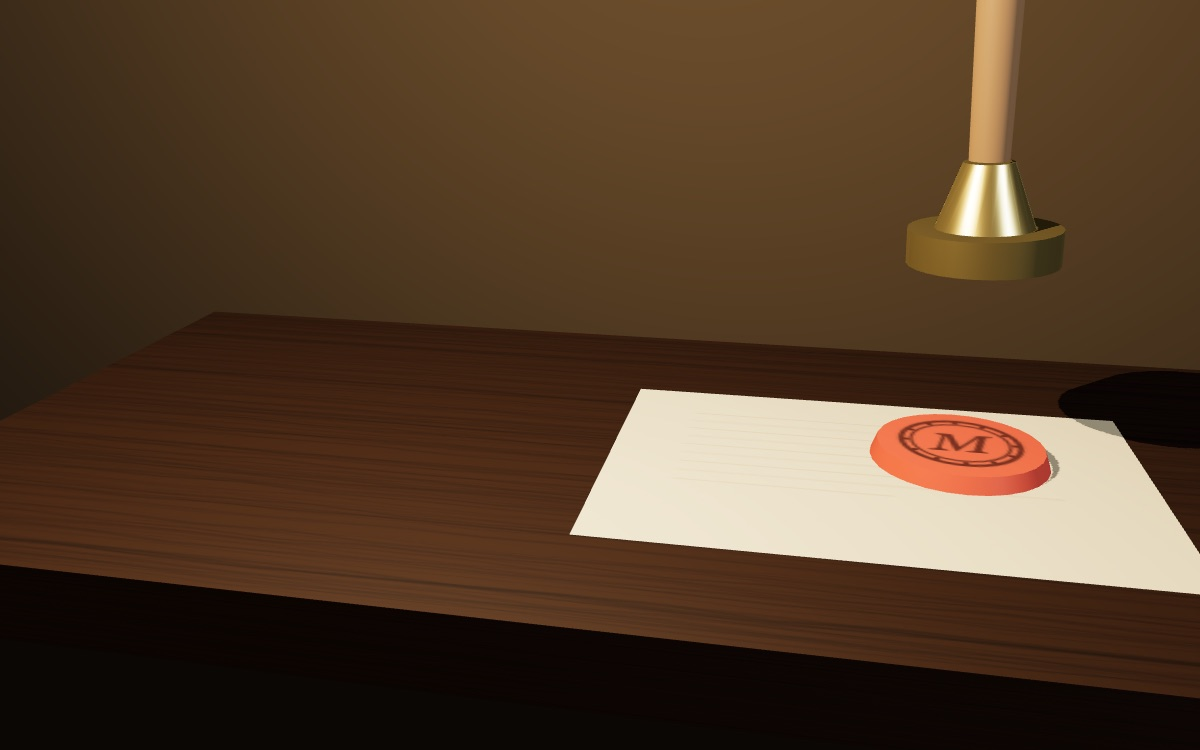
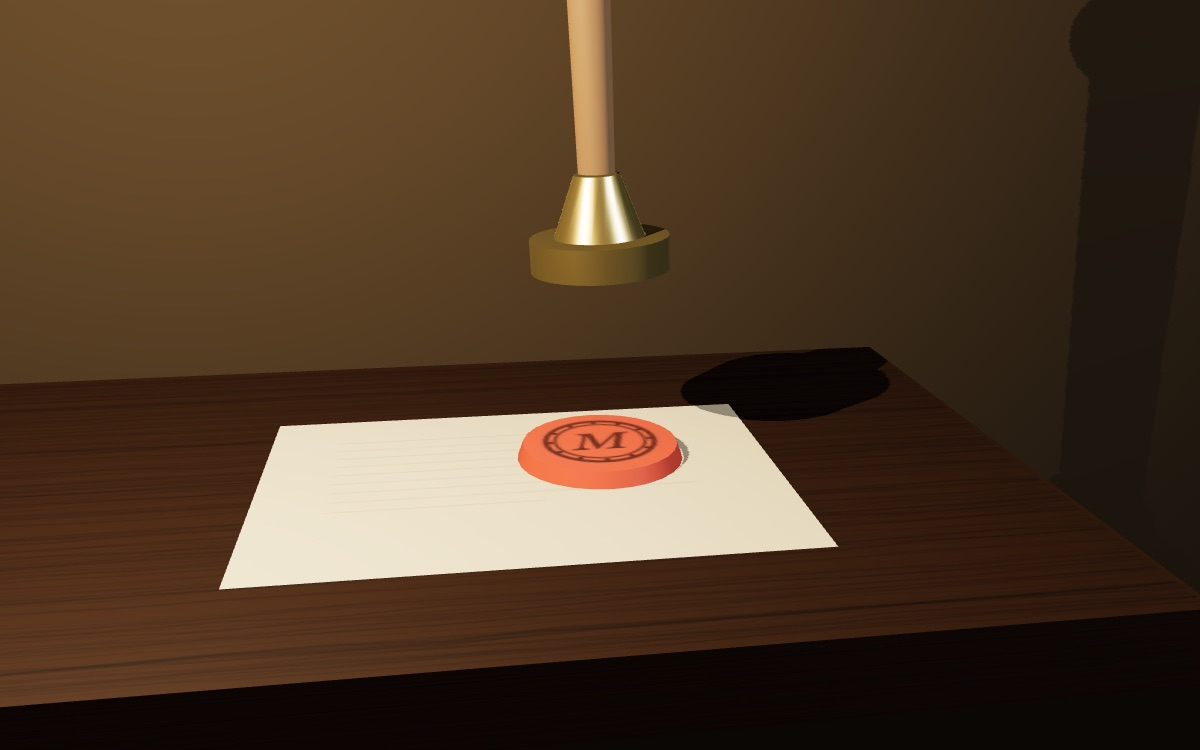
Glossaire : objectivation réécrite selon la charte, direction artistique « la pierre taillée »

diff --git a/glossaire/mondes/objectivation/essai.html b/glossaire/mondes/objectivation/essai.html
@@ -1,46 +1,72 @@
-<!-- L'ESSAI — le corps de /glossaire/objectivation.
-     ⚠ AUCUNE CITATION LIÉE : traduction Bottigelli, protégée jusqu'en 2046.
-     Le premier manuscrit est PARAPHRASÉ et situé, jamais cité. -->
+<!-- L'ESSAI : le corps de /glossaire/objectivation.
+     Réécrit en octobre 2026 selon glossaire/mondes/CHARTE.md.
+     AUCUNE CITATION LIÉE : la traduction Bottigelli des Manuscrits est
+     protégée jusqu'en 2046. Le premier et le troisième manuscrit sont
+     PARAPHRASÉS et situés, jamais cités entre guillemets. Les data-etape et
+     les id des sections ne changent pas : la scène lit les premiers, les
+     liens et la recherche les seconds. -->
 
 <section class="nt-sec" data-etape="fait" id="fait">
-<h2>Le travail se réalise dans un objet</h2>
-<p>Il y a, au cœur du premier manuscrit, une proposition si simple qu'on la lit souvent sans la voir, et dont dépend pourtant tout ce que Marx construira ensuite&nbsp;: le travail se réalise dans un objet. Travailler, ce n'est pas dépenser une énergie qui se dissipe&nbsp;; c'est faire passer une activité dans une chose, où elle se fixe et demeure. Le produit d'un travail est du travail devenu objet.</p>
-<p>Marx nomme ce passage l'objectivation, et il faut prendre le mot dans son sens le plus littéral&nbsp;: devenir-objet. Ce qui était mouvement, geste, décision, se dépose dans une matière qui le retient. Une table finie, c'est un certain nombre d'heures rendues visibles et durables&nbsp;; elle continue d'exister quand le menuisier a cessé de travailler, et même quand il est mort.</p>
-<p>On mesure ce que cette proposition a d'extraordinaire dès qu'on la retourne. Si le travail se dépose dans les choses, alors le monde des objets fabriqués est le monde des activités humaines passées, conservées&nbsp;; une ville, une bibliothèque, un outil sont des quantités de vie humaine qui ont pris corps. C'est cette idée, et non une thèse économique, qui fait des <i>Manuscrits</i> autre chose qu'un commentaire de Smith.</p>
+<h2>Que veut dire «&nbsp;le travail se réalise dans un objet&nbsp;»&nbsp;?</h2>
+<p class="nt-lead">Cela veut dire que travailler, c'est faire passer une activité dans une matière, où elle se fixe et demeure. Le produit est du travail devenu objet, et Marx appelle objectivation ce passage.</p>
+<p>La notion apparaît dans le premier des <i>Manuscrits de 1844</i>, des cahiers que Marx rédige à Paris et qui sont restés inédits jusqu'en 1932. Au moment où il commence l'analyse du travail aliéné, il pose une définition très simple&nbsp;: le produit du travail est le travail qui s'est fixé dans un objet, et réaliser un travail, c'est l'objectiver. Le mot allemand, <i lang="de">Vergegenständlichung</i>, se lit presque à la lettre. Il est formé sur <i lang="de">Gegenstand</i>, l'objet, et désigne le fait de devenir objet.</p>
+<p>Prenons une table. Avant qu'elle existe, il y a un menuisier qui mesure, scie, rabote et assemble. Ses gestes passent, et pourtant quelque chose d'eux reste&nbsp;: la forme donnée au bois, la justesse des joints. La table continue d'exister quand le menuisier a posé ses outils, et même après sa mort. On peut dire d'elle qu'elle est une activité passée, conservée dans une matière.</p>
+<p>Retournée, l'idée prend de l'ampleur. Si le travail se dépose dans les choses, le monde des objets fabriqués est fait d'activités humaines passées&nbsp;: une ville ou un outil sont des quantités de vie humaine qui ont pris corps. La photographie en tête de page le montre sur un seul bloc de pierre. Chaque strie y est un coup de ciseau, et la marque du tailleur se lit encore, dix-huit siècles après qu'il a posé son outil.</p>
 </section>
 
 <section class="nt-sec" data-etape="distinction" id="distinction">
-<h2>La distinction qui fait le concept&nbsp;: objectiver n'est pas aliéner</h2>
-<p>Ici se joue la distinction la plus importante de toute la notion, et celle que l'on manque le plus souvent&nbsp;: l'objectivation n'est pas l'aliénation. Le travail se réalise dans un objet — cela est vrai de tout travail, en tout temps, sous n'importe quel rapport social. C'est un fait anthropologique, non un malheur.</p>
-<p>Ce qui fait le malheur, c'est ce qui arrive à cet objet ensuite. Sous le rapport que Marx analyse, la réalisation du travail apparaît comme une perte de réalité pour le travailleur&nbsp;; l'objectivation apparaît comme une dépossession&nbsp;; l'appropriation apparaît comme un dessaisissement. Il faut lire ces formules avec attention&nbsp;: Marx dit que l'objectivation <i>apparaît comme</i> dépossession, dans ces conditions-là — non qu'elle le soit par nature.</p>
-<p>La conséquence est considérable pour toute la lecture de Marx. Si l'on confond les deux, on aboutit à l'idée qu'il faudrait cesser de produire des objets, ou que toute technique est une chute&nbsp;; on tire des <i>Manuscrits</i> une nostalgie qui n'y est pas. Si on les distingue, la critique porte non sur le fait que l'homme se dépose dans ce qu'il fait — c'est ainsi qu'il vit et qu'il se développe — mais sur le rapport social qui fait que ce dépôt lui revient comme une puissance étrangère. Ce rapport a un nom&nbsp;: c'est le <a href="/glossaire/travail-aliene">travail aliéné</a>, et l'objectivation en est le présupposé, non la cause.</p>
+<h2>L'objectivation est-elle déjà une aliénation&nbsp;?</h2>
+<p class="nt-lead">Non. Tout travail s'objective, à toute époque et sous n'importe quel rapport social. L'aliénation désigne ce qui arrive au produit dans une situation donnée, quand il échappe à celui qui l'a fait et se retourne contre lui.</p>
+<p>Marx enchaîne aussitôt. Dans l'état que décrit l'économie politique, dit-il, la réalisation du travail apparaît comme une perte de réalité pour l'ouvrier, l'objectivation comme la perte de l'objet et l'asservissement à cet objet, l'appropriation comme une aliénation. Le verbe compte&nbsp;: l'objectivation <i>apparaît comme</i> une perte, dans ces conditions-là. Marx ne dit nulle part qu'elle en soit une par nature.</p>
+<p>Si l'on confond les deux notions, on conclut que le mal vient du fait même de produire des objets, et l'on prête aux <i>Manuscrits</i> une nostalgie d'un monde sans techniques qu'ils n'expriment nulle part. Si on les distingue, la critique trouve sa cible&nbsp;: le rapport social qui fait revenir le produit vers le travailleur comme une puissance étrangère. Ce rapport a un nom, le <a href="/glossaire/travail-aliene">travail aliéné</a>. L'objectivation en est la condition préalable, puisque sans produit rien ne pourrait échapper au travailleur.</p>
+<div class="nt-ex">
+<p class="nt-ex-t">Un exemple</p>
+<p>Deux menuisiers font la même chaise. Le premier travaille chez lui, avec ses outils, pour sa propre maison. Le second travaille dans une fabrique, sur le bois et les machines d'un autre, contre un salaire. Dans les deux cas l'objectivation est la même&nbsp;: une activité est passée dans le bois et y demeure.</p>
+<p>Ce qui diffère, c'est le sort de la chaise. La première reste à celui qui l'a faite. La seconde appartient au propriétaire de la fabrique&nbsp;; plus l'ouvrier en fait, plus grossit une richesse qui n'est pas la sienne et qui décide de son travail du lendemain. L'exemple est le nôtre, la distinction est celle de Marx.</p>
+</div>
+<p>Le sceau donne une image simple de l'objectivation sans perte. La matrice laisse sa forme dans la cire, et elle garde intacte sa gravure&nbsp;: la scène en bas de page joue sur ce geste.</p>
+<div data-planche="sceau"></div>
 </section>
 
 <section class="nt-sec" data-etape="ou" id="ou">
-<h2>Où Marx la pose&nbsp;: au seuil du travail aliéné</h2>
-<p>La place du concept dans le cahier confirme cette lecture. L'objectivation est introduite au début de la section sur le travail aliéné, comme le fait dont on part&nbsp;: l'ouvrier produit, et son produit se dresse devant lui comme un être étranger. Marx commence par le fait — il y a un produit — puis ajoute la détermination sociale — ce produit ne lui appartient pas.</p>
-<p>On peut suivre l'ordre de la déduction, et il est instructif. Premier moment&nbsp;: le travail produit des objets. Deuxième moment&nbsp;: dans ces conditions, plus il en produit, moins il en possède, et plus l'objet qu'il crée acquiert de puissance en face de lui. Troisième moment&nbsp;: cette puissance est faite de son propre travail, si bien que ce qui l'écrase est ce qu'il a mis dans le monde. Marx en tire une comparaison qu'il file avec la religion — plus l'homme met de choses en Dieu, moins il en garde en lui-même —, et l'on voit que la structure est la même&nbsp;: une production humaine qui devient un pouvoir séparé.</p>
-<p>Il faut noter que le premier moment, à lui seul, ne contient aucun grief. C'est même ce qui rend l'analyse forte&nbsp;: Marx n'a pas besoin de supposer une méchanceté, ni un vol, ni une origine coupable. Il lui suffit du fait que le travail s'objective et de la condition sociale sous laquelle il s'objective, et la dépossession suit.</p>
+<h2>Comment Marx passe-t-il de l'objectivation au travail aliéné&nbsp;?</h2>
+<p class="nt-lead">Il part d'un fait économique de son temps, l'appauvrissement de l'ouvrier qui produit des richesses. Puis il y distingue le fait universel de l'objectivation et la forme de perte qu'elle prend sous l'économie qu'il étudie.</p>
+<p>Le premier manuscrit refuse de commencer par un état originel imaginé, comme les économistes qui expliquent l'échange par un passé fabriqué pour l'occasion. Marx compare cette manière au théologien qui explique le mal par le péché originel, en supposant ce qu'il faudrait démontrer. Lui part d'un fait actuel&nbsp;: l'ouvrier devient d'autant plus pauvre qu'il produit plus de richesse, et il devient lui-même une marchandise d'autant plus vile qu'il en crée davantage. Ce fait, dit-il, signifie que le produit du travail fait face à l'ouvrier comme un être étranger, une puissance indépendante de lui. C'est pour analyser ce fait qu'il introduit l'objectivation.</p>
+<p>La déduction a trois moments. D'abord, le travail produit des objets. Ensuite, sous le rapport analysé, plus l'ouvrier produit, moins il possède, et plus son produit, le capital, le domine. Enfin, ce qui le domine est fait de sa propre activité. Marx compare ce mouvement à la religion, où tout ce que l'homme attribue à Dieu est retiré à l'homme. L'ouvrier met sa vie dans l'objet, et cette vie appartient désormais à l'objet&nbsp;; il devient, selon le mot que le traducteur signale en note, sans objet, <i lang="de">gegenstandslos</i>.</p>
+<p>Le premier de ces moments ne contient aucun grief&nbsp;: Marx n'a besoin de supposer ni vol ni faute d'origine. Il lui suffit que le travail s'objective, et qu'il s'objective dans certaines conditions sociales, pour que la dépossession suive.</p>
 </section>
 
 <section class="nt-sec" data-etape="matiere" id="matiere">
-<h2>Le mécanisme&nbsp;: la nature comme matière, et comme corps</h2>
-<p>Un second aspect du concept mérite d'être dégagé, parce qu'il commande la suite du cahier. Pour que le travail s'objective, il lui faut une matière&nbsp;: on ne dépose pas une activité dans le vide. Cette matière, c'est la nature — et Marx en tire deux conséquences symétriques.</p>
-<p>La première est que le travailleur dépend de la nature deux fois. Elle lui fournit de quoi travailler, sans quoi son activité ne peut se réaliser&nbsp;; et elle lui fournit de quoi vivre pendant qu'il travaille. Sous le rapport analysé, ces deux fournitures lui sont mesurées par un autre, et l'on retrouve la dépendance sous une forme matérielle et non plus seulement juridique.</p>
-<p>La seconde conséquence est plus large, et elle porte le concept d'<a href="/glossaire/etre-generique">être générique</a>&nbsp;: si l'homme ne peut vivre qu'en objectivant son activité dans une matière, alors la nature est son corps prolongé — Marx dit son corps inorganique, avec lequel il doit demeurer en procès continu sous peine de mourir. L'objectivation n'est donc pas une opération que l'homme ferait sur un monde extérieur&nbsp;: c'est le mode même de son existence, et c'est pourquoi la manière dont elle est organisée décide de ce qu'il devient.</p>
+<h2>Pourquoi le travail a-t-il besoin de la nature&nbsp;?</h2>
+<p class="nt-lead">Parce qu'on ne dépose pas une activité dans le vide&nbsp;: il faut une matière. Marx en tire que la nature est le corps non organique de l'homme, et que l'homme se reconnaît dans le monde qu'il façonne.</p>
+<p>L'ouvrier, écrit Marx, ne peut rien créer sans la nature, sans le monde extérieur sensible. Elle lui sert deux fois. Elle est la matière dans laquelle son travail se réalise, et elle lui fournit de quoi vivre pendant qu'il travaille. Sous le rapport que décrit le premier manuscrit, ces deux choses lui sont mesurées par un autre. Plus il s'approprie la nature par son travail, plus il s'en prive sous ce double point de vue, au point de devenir, dit Marx, l'esclave de son objet.</p>
+<p>Une autre conséquence, plus large, mène à la notion d'<a href="/glossaire/etre-generique">être générique</a>. L'animal produit sous la pression du besoin immédiat et à la mesure de son espèce. L'homme peut produire à la mesure de toutes les espèces, il peut produire libéré du besoin, et il donne aussi aux choses une forme selon une exigence de beauté. Dans les objets qu'il fabrique, il se dédouble réellement, et non dans sa seule pensée&nbsp;: il se voit dans un monde qu'il a créé. Le produit du travail est ainsi, pour Marx, l'objectivation de la vie de l'espèce humaine.</p>
+<p>On comprend alors pourquoi la manière d'organiser le travail décide de ce que l'homme devient. L'objectivation est sa façon d'exister, et la nature, le prolongement de son corps avec lequel il échange sans cesse. En lui retirant l'objet de sa production, le travail aliéné lui retire du même coup ce corps non organique, et fait d'un avantage sur l'animal un désavantage.</p>
 </section>
 
 <section class="nt-sec" data-etape="ouvre" id="ouvre">
-<h2>Ce que le concept ouvre&nbsp;: la valeur, plus tard</h2>
-<p>L'objectivation de 1844 est le premier état d'une idée que le <a href="/glossaire/plus-value">Capital</a> reprendra sous une forme entièrement transformée. Vingt ans plus tard, Marx dira que la valeur d'une marchandise est du travail humain cristallisé, et que le capital est du travail mort qui commande le travail vivant. On reconnaît la même intuition&nbsp;; on ne doit pas pour autant les confondre.</p>
-<p>Ce qui change est décisif. En 1844, l'objectivation est décrite comme un rapport de l'individu à son produit, dans un vocabulaire philosophique venu de Hegel et de Feuerbach. Dans le <i>Capital</i>, ce n'est plus l'individu mais le travail social qui se cristallise, et la mesure n'est plus l'activité d'un homme mais le temps socialement nécessaire — une grandeur qui ne dépend d'aucun travailleur en particulier. Le concept a changé de sujet, et cette mutation est ce qui rend possible une théorie de la valeur.</p>
-<p>Nous ajoutons que la continuité, pour être réelle, n'autorise pas à lire le second dans le premier. Les <i>Manuscrits</i> ne contiennent pas la théorie de la valeur en germe&nbsp;; ils contiennent une description du travail comme extériorisation, dont Marx conservera la forme en changeant tout le contenu. C'est un cas net où l'on peut voir une pensée garder son schéma et transformer sa matière.</p>
+<h2>Que devient le concept dans <i>Le Capital</i>&nbsp;?</h2>
+<p class="nt-lead">Il survit, transformé. La valeur d'une marchandise y est du travail humain fixé dans une chose, mais ce travail est celui de la société entière, mesuré par le temps de travail socialement nécessaire.</p>
+<p>Plus de vingt ans séparent les deux textes. Dans la traduction de Joseph Roy, revue par Marx, les mots <i>fixé</i>, <i>réalisé</i> et <i>cristallisé</i> reviennent souvent pour dire le travail contenu dans une marchandise&nbsp;: plus est petite la masse de travail cristallisée dans un article, plus est petite sa valeur. Les moyens de production, de leur côté, y représentent le travail déjà réalisé en eux. Le capital lui-même devient du <a href="/glossaire/travail-mort-et-vivant">travail mort</a> qui commande le travail vivant. On reconnaît l'intuition de 1844&nbsp;: du travail passé, déposé dans les choses, agit sur le travail présent.</p>
+<p>Le concept a pourtant changé de sujet. En 1844, l'objectivation est le rapport d'un individu à son produit, dans un vocabulaire hérité de Hegel et de Feuerbach. Dans <i>Le Capital</i>, c'est le travail de toute la société qui se fixe dans les marchandises, et sa mesure ne dépend d'aucun travailleur en particulier&nbsp;: c'est le temps qu'il faut en moyenne, avec les moyens de l'époque, pour produire une chose. Ce déplacement rend possible une théorie de la <a href="/glossaire/valeur-d-usage-et-valeur">valeur</a>.</p>
+<p>Nous tenons que cette continuité, bien réelle, n'autorise pas à lire le second livre dans le premier. Les <i>Manuscrits</i> décrivent le travail comme un passage dans l'objet&nbsp;; la mesure sociale de ce passage n'y figure pas encore. Marx garde la forme de l'idée et en change le contenu.</p>
 </section>
 
 <section class="nt-sec" data-etape="lectures" id="lectures">
-<h2>Lectures, et contresens</h2>
-<p>Le premier contresens, déjà nommé, mérite d'être répété parce qu'il commande tous les autres&nbsp;: confondre objectivation et aliénation. C'est la lecture qui fait de Marx un romantique regrettant un monde sans objets, alors qu'il tient le dépôt de l'activité dans les choses pour la manière même dont l'homme se réalise et s'accroît.</p>
-<p>Le deuxième contresens tient au vocabulaire hégélien. On lit parfois que Marx reprendrait à Hegel l'idée d'une conscience qui s'extériorise et se retrouve. Marx lui-même s'en explique à la fin du cahier, et son reproche est précis&nbsp;: Hegel, dit-il, confond l'objectivation avec l'aliénation, si bien que la réconciliation consiste chez lui à supprimer l'objet — un dépassement qui se joue dans la pensée, tandis que la dépossession, elle, est réelle. La distinction que nous avons posée n'est donc pas un raffinement de commentateur&nbsp;: c'est le point sur lequel Marx se sépare de Hegel.</p>
-<p>Le troisième contresens serait de croire que le concept a disparu de l'œuvre mûre parce que le mot s'y raréfie. Le rapport du travail vivant au travail mort traverse le <i>Capital</i> de bout en bout, et le chapitre sur le machinisme le porte à son point le plus dur, où l'ouvrier devient l'appendice de ce que d'autres ouvriers ont produit avant lui. Ce n'est pas le concept qui s'est retiré, c'est son vocabulaire.</p>
-<p>Reste, comme toujours pour ces cahiers, à rappeler leur statut de chantier inédit jusqu'en 1932. Sur ce point précis, nous tenons pourtant le texte pour ferme&nbsp;: la distinction de l'objectivation et de l'aliénation y est faite explicitement, et elle est reprise dans la critique de Hegel qui clôt le troisième manuscrit.</p>
+<h2>Comment lire ce concept, et quels contresens éviter&nbsp;?</h2>
+<p class="nt-lead">Le texte le plus net sur la question est la critique de Hegel qui clôt le troisième manuscrit&nbsp;: Marx y reproche à Hegel d'avoir confondu l'objectivation et l'aliénation. Trois contresens courants se corrigent à partir de là.</p>
+<p>Marx y commente le dernier chapitre de la <i>Phénoménologie de l'esprit</i>, consacré au savoir absolu. Il commence par reconnaître la grandeur de Hegel, qui a compris que l'homme se produit lui-même au cours d'un processus et qu'il est le résultat de son propre travail. Mais le seul travail que Hegel connaisse, selon Marx, est le travail abstrait de l'esprit. Pour lui, l'objectivité comme telle est un rapport aliéné. Se réapproprier son essence revient donc à supprimer l'objet, et l'homme devient un être sans objet, purement spirituel. Marx répond qu'un être qui n'a aucun objet hors de lui n'est pas un être réel. La distinction de l'objectivation et de l'aliénation est le point même où il se sépare de Hegel.</p>
+<p>Le vocabulaire égare souvent. Marx emploie deux termes pour l'aliénation, <i lang="de">Entfremdung</i> et <i lang="de">Entäußerung</i>, et il les emploie presque indifféremment, comme le note le traducteur. La frontière qui compte passe entre ces deux mots et <i lang="de">Vergegenständlichung</i>. Ces cahiers restent un chantier, publié bien après la mort de Marx&nbsp;; sur ce point le texte est pourtant ferme, puisque la distinction revient au début et à la fin, dans le premier et dans le troisième manuscrit.</p>
+<div class="nt-cs">
+<p><span class="nt-cs-k">On lit souvent</span> Marx condamnerait la production d'objets, la technique ou la civilisation matérielle, et regretterait un état plus simple de l'humanité.</p>
+<p><span class="nt-cs-k">Ce que dit le texte</span> Il tient le dépôt de l'activité dans les choses pour la manière dont l'homme existe et se reconnaît. Sa critique vise le rapport social qui retourne le produit contre celui qui l'a fait, et c'est justement la confusion des deux plans qu'il reproche à Hegel.</p>
+</div>
+<div class="nt-cs">
+<p><span class="nt-cs-k">On lit souvent</span> L'objectivation serait une affaire de conscience&nbsp;: une idée qui sort d'elle-même et se retrouve, à la manière de Hegel.</p>
+<p><span class="nt-cs-k">Ce que dit le texte</span> Marx parle d'une activité matérielle, qui a besoin de la nature comme matière. L'homme se dédouble dans ses produits, réellement, et pas seulement dans sa pensée. Réduire le travail à celui de l'esprit est le défaut même qu'il relève chez Hegel.</p>
+</div>
+<div class="nt-cs">
+<p><span class="nt-cs-k">On lit souvent</span> L'objectivation serait un concept de jeunesse, abandonné avec le vocabulaire philosophique de 1844.</p>
+<p><span class="nt-cs-k">Ce que dit le texte</span> L'idée d'un travail fixé dans les choses porte la théorie de la valeur du <i>Capital</i> et le rapport du travail mort au travail vivant. Au chapitre du machinisme, l'ouvrier devient l'<a href="/glossaire/appendice-de-la-machine">appendice</a> d'une machine que d'autres ont produite avant lui. Seul le vocabulaire philosophique de 1844 s'est effacé.</p>
+</div>
 </section>

diff --git a/glossaire/mondes/objectivation/monde.js b/glossaire/mondes/objectivation/monde.js
@@ -142,17 +142,17 @@ window.LM_MONDE = function (canvas) {
     lampe.intensity = 3.1 * (1 + 0.03 * Math.sin(T * 7.1));
 
     /* la caméra : serrée sur la cire, puis un peu de recul.
-       L'ensemble tient dans une unité ; à 38° la largeur vue vaut 1,07 fois
-       la distance, et la colonne de texte prend 43 % — d'où 2,0 et 0,45. */
+       La scène est maintenant une FIGURE en bas de page (oct. 2026) : plus
+       de colonne de texte à côté d'elle, donc plus de visée décalée à
+       gauche du sujet (elle le rejetait au bord droit du cadre). La caméra
+       vise la cire, et la visée remonte avec le cachet relevé pour que sa
+       tête reste dans le cadre. */
     var q = ss(0, 1, Math.min(1, G / 1.7));
     var cx = lerp(0.62, 0.22, q), cy = lerp(0.44, 0.72, q), cz = lerp(0.86, 1.72, q);
     cz = lerp(cz, 2.0, st.recul); cy = lerp(cy, 0.84, st.recul);
-    var camA = V3(lerp(CX, CX - 0.16, q), lerp(0.09, 0.10, q), CZ);
+    var camA = V3(CX, lerp(0.09, 0.10, q) + 0.07 * st.releve, CZ);
     camera.position.set(cx + 0.010 * Math.sin(T * 0.31), cy + 0.007 * Math.sin(T * 0.39), cz);
-    var dist = camera.position.distanceTo(camA);
-    var fwd = new THREE.Vector3().subVectors(camA, camera.position).normalize();
-    var right = new THREE.Vector3().crossVectors(fwd, V3(0, 1, 0)).normalize();
-    aim.copy(camA).addScaledVector(right, -Math.min(0.26 * dist, 0.45));
+    aim.copy(camA);
     camera.lookAt(aim);
     render();
   }
